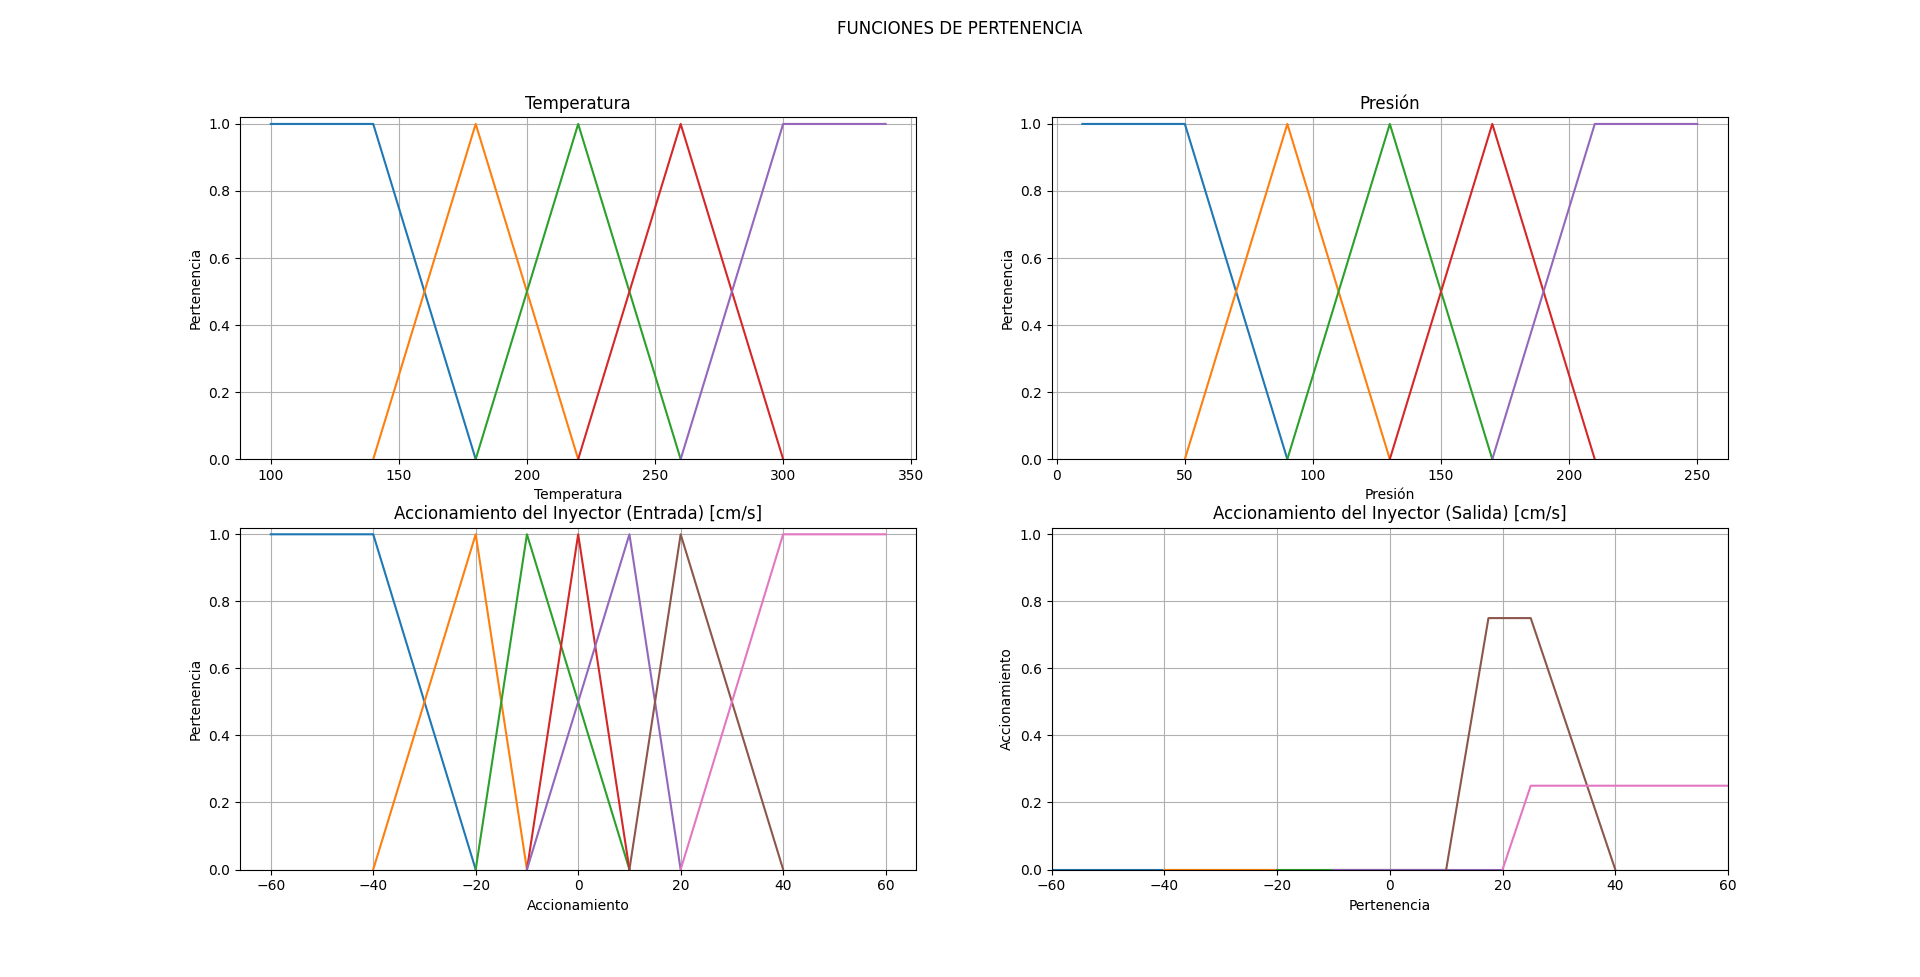
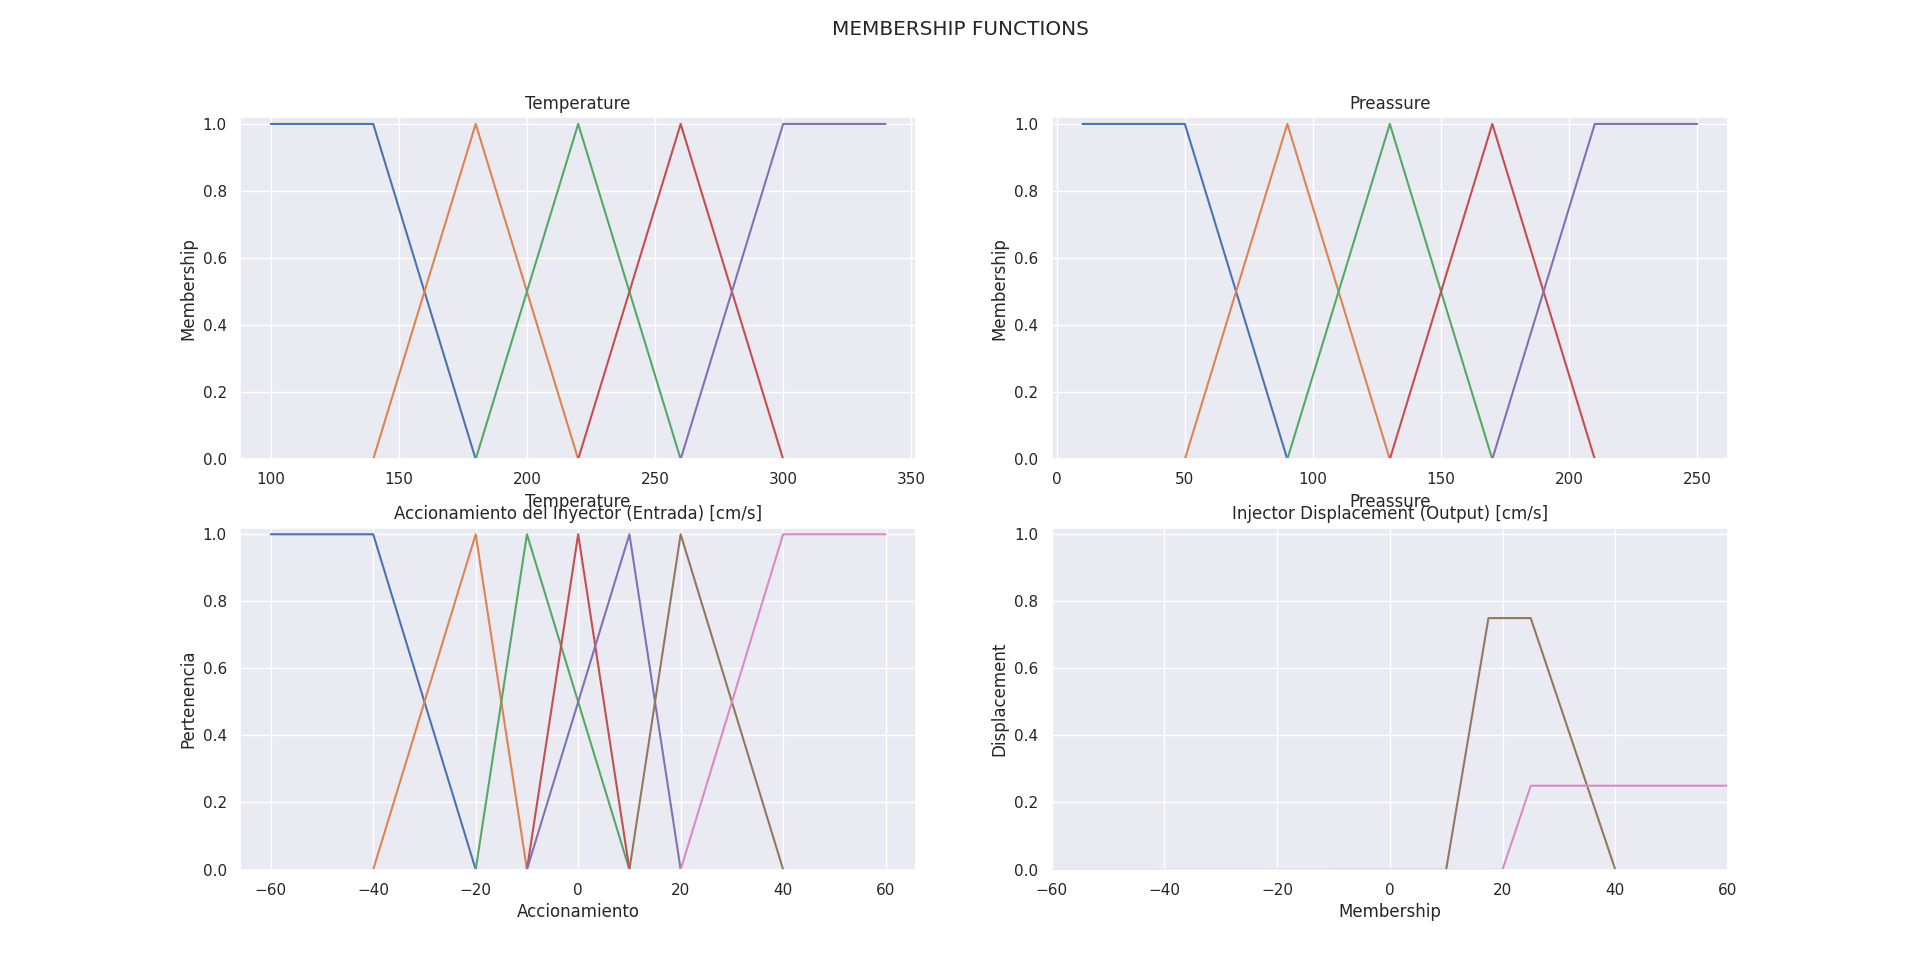
update images

diff --git a/ControlFuzzyTurbina.py b/ControlFuzzyTurbina.py
@@ -5,12 +5,14 @@ Created on Thu Mar 11 00:43:30 2021
 
 @author: diego
 """
-# Se importan librerías 
+# Se importan librerías
 # import numpy as np
 import matplotlib.pyplot as plt
 from FuncionesPertenencia import TrapAbiertaIzquierda, TrapAbiertaDerecha, \
     Triangular, Trapezoidal, Intersecciones, Conorma
 from copy import deepcopy
+import seaborn as sns
+sns.set_theme()
 
 # Se establecen las etiquetas de los conjuntos difusos para Temperatura y Presión y se agrupan en dos diccionarios
 Temp = {'name': 'Temperatura', 'labels': ["Fria", "Fresca", "Normal", "Tibia", "Caliente"]}
@@ -30,9 +32,9 @@ for i in Temperatura:
     axs[0, 0].plot(i.x, i.y)
 axs[0, 0].set_ylim([0, 1.02])
 axs[0, 0].grid(True)
-axs[0, 0].set_title("Temperatura")
-axs[0, 0].set_xlabel("Temperatura")
-axs[0, 0].set_ylabel('Pertenencia')
+axs[0, 0].set_title("Temperature")
+axs[0, 0].set_xlabel("Temperature")
+axs[0, 0].set_ylabel('Membership')
 
 # Se definen las funciones de pertenencia de los conjuntos difusos para la presión
 PreEscasa = TrapAbiertaIzquierda(Pres['labels'][0], Pres['name'], [10, 50, 90])
@@ -48,9 +50,9 @@ for i in Presion:
     axs[0, 1].plot(i.x, i.y)
 axs[0, 1].grid(True)
 axs[0, 1].set_ylim([0, 1.02])
-axs[0, 1].set_title("Presión")
-axs[0, 1].set_xlabel("Presión")
-axs[0, 1].set_ylabel('Pertenencia')
+axs[0, 1].set_title("Preassure")
+axs[0, 1].set_xlabel("Preassure")
+axs[0, 1].set_ylabel('Membership')
 
 # Se Realizan las entradas del sistema con valores discretos
 TempValue = 150
@@ -70,10 +72,10 @@ ActPre = []
 
 for i in Temperatura:
     ActTemp.append(i.eval(TempValue))
-    
+
 for i in Presion:
     ActPre.append(i.eval(PreValue))
-    
+
 # Se generan diccionarios que relacionan las etiquetas de los conjuntos difusos con los valores de activación
 
 DicTemp = dict(zip(Temp['labels'], ActTemp))
@@ -121,7 +123,7 @@ for i in DicVal.keys():
 print("DictValIntersec\n \n", DicValIntersec, "\n")
 # Se definen las etiquetas para las funciones de salida
 Accion = {'name': 'action', 'labels': ["NG", "NM", "NP", "CE", "PP", "PM", "PG"]}
-        
+
 # Se definen las funciones de salida
 AccNG = TrapAbiertaIzquierda(Accion['labels'][0], Accion['name'], [-60, -40, -20])
 AccNM = Triangular(Accion['labels'][1], Accion['name'], [-40, -20, -10])
@@ -178,7 +180,7 @@ AccionConorma = deepcopy(AccionDict)
 for i in AccionConorma.keys():
     value = Conorma.max(AccionConorma[i])
     AccionConorma[i] = value
-    
+
 # El diccionario AccionConorma contiene el valor de corte para cada uno de los conjuntos difusos a la salida
 print("AccionConorma\n \n", AccionConorma, "\n")
 
@@ -202,7 +204,7 @@ if Tipo == "Escalado":
             Base = DictAccSal[i]
             AccionDict[i] = Triangular('TriangularTruncada', Base.var, [Base.inicio, Base.medio, Base.fin],
                                        AccionConorma[i])
-             
+
 elif Tipo == "Truncado":
     for i in AccionConorma.keys():
         if DictAccSal[i].type == "TrapAbiertaIzquierda":
@@ -234,10 +236,10 @@ for i in AccionDict.keys():
 axs[1, 1].set_xlim([-60, 60])
 axs[1, 1].set_ylim([0, 1.02])
 axs[1, 1].grid(True)
-axs[1, 1].set_xlabel('Pertenencia')
-axs[1, 1].set_ylabel('Accionamiento')
-axs[1, 1].set_title('Accionamiento del Inyector (Salida) [cm/s]')
-fig.suptitle('FUNCIONES DE PERTENENCIA')
+axs[1, 1].set_xlabel('Membership')
+axs[1, 1].set_ylabel('Displacement')
+axs[1, 1].set_title('Injector Displacement (Output) [cm/s]')
+fig.suptitle('MEMBERSHIP FUNCTIONS')
 plt.show()
 
 Areas = []
@@ -252,7 +254,7 @@ for i in AccionDict.keys():
         centroide2 = Base.inicio + (1/2)*(Base.medio - Base.inicio)
         Areas.extend([area1, area2])
         Centroides.extend([centroide1, centroide2])
-        
+
     elif AccionDict[i].type == "TrapAbiertaDerecha":
         Base = AccionDict[i]
         area1 = 1/2*((Base.medio - Base.inicio)*Base.altura)
@@ -261,7 +263,7 @@ for i in AccionDict.keys():
         centroide2 = Base.medio + (1/2)*(Base.fin - Base.medio)
         Areas.extend([area1, area2])
         Centroides.extend([centroide1, centroide2])
-    
+
     elif AccionDict[i].type == "Trapezoidal" or AccionDict[i].type == "Tringular":
         Base = AccionDict[i]
         area1 = 1/2*((Base.medio1 - Base.inicio)*Base.altura)
